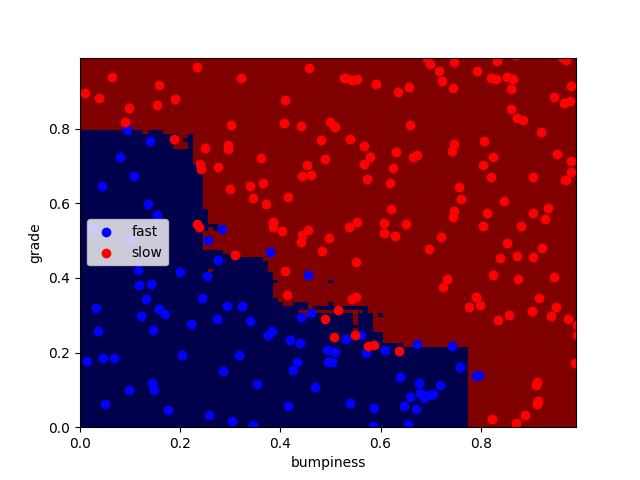
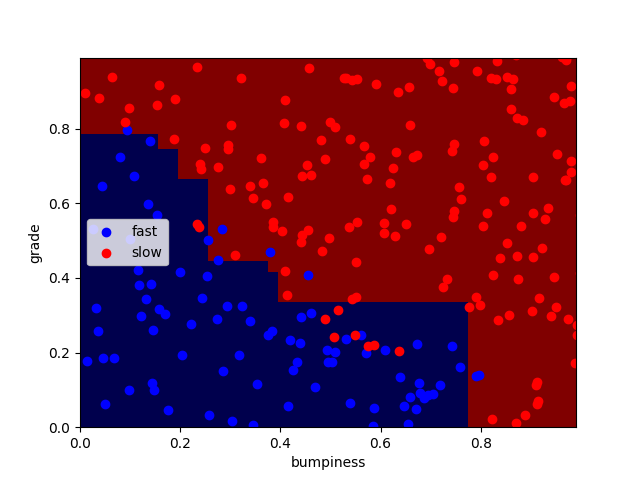
fix: Final model using AdaBoost acc 0.93

diff --git a/choose_your_own/adaboost_algorithm.py b/choose_your_own/adaboost_algorithm.py
@@ -36,20 +36,39 @@ from sklearn.metrics import confusion_matrix
 from sklearn.metrics import accuracy_score
 import time
 
-clf = ABC()
+
+clf = ABC(n_estimators=20, learning_rate=2)
 clf.fit(features_train, labels_train)
 pred = clf.predict(features_test)
 
 print("The model accurcy is ", accuracy_score(labels_test,pred))
 print("This is the model confusion matrix:", confusion_matrix(labels_test,pred))
 
+
 '''
-for n in range(1,3):
+accuracy = []
+number_of_estimator = []
+duration = []
+
+for n in range(1,9,1):
     start = time.time()
-    clf1 = KNeighborsClassifier(n_neighbors=7, p=n)
+    clf1 = ABC(n_estimators=20,learning_rate=n)
     clf1.fit(features_train, labels_train)
     pred = clf1.predict(features_test)
-    print("The accuracy of p= \"{}\" model accurcy is ".format(n), accuracy_score(labels_test,pred), "Its took ", time.time() - start, " to finish") 
+    duration.append(time.time() - start)
+    number_of_estimator.append(n)
+    accuracy.append(accuracy_score(labels_test,pred))
+
+    
+    
+
+plt.plot(number_of_estimator,accuracy, color ='b', label = "accuracy")
+plt.plot(number_of_estimator,duration, color ='r', label = "Training duration") 
+plt.legend()
+plt.xlabel("number_of_estimator")
+plt.ylabel("Grading Metrics")
+plt.show()
+print(number_of_estimator, "\n", accuracy, "\n", duration)
 '''   
 
 
@@ -57,3 +76,4 @@ try:
     prettyPicture(clf, features_test, labels_test)
 except NameError:
     pass
+
